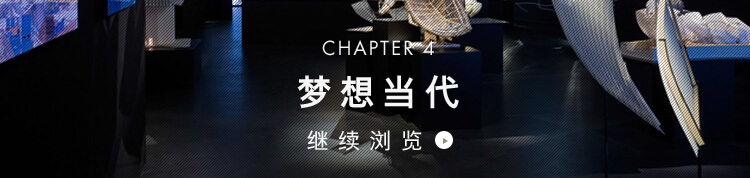
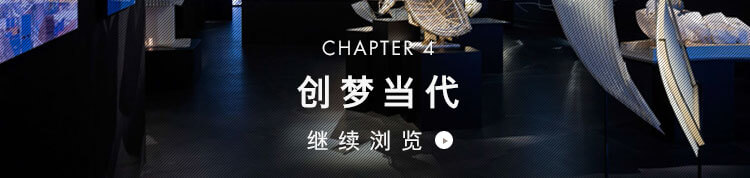
更新chapter4图片

diff --git a/app/Resources/public/css/menu.css b/app/Resources/public/css/menu.css
@@ -80,9 +80,9 @@
 }
 
 .close{
-	width: 14%;
+	width: 12%;
 	display: inline-block;
-	font-size: 1.4em;
+	font-size: 1.2em;
 	color: #d0d0d0;
 	text-align: center;
 }
